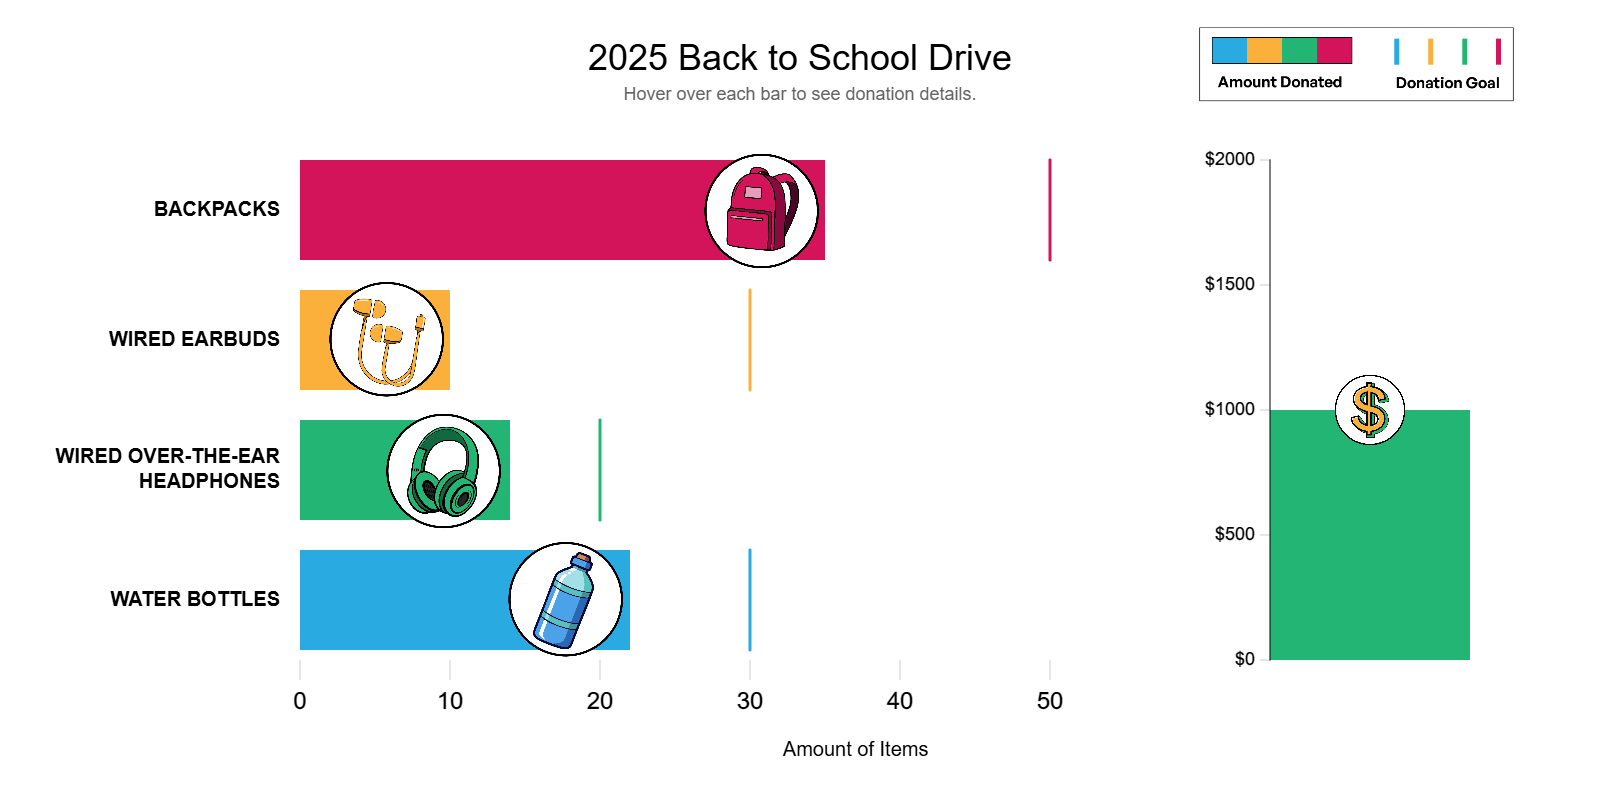
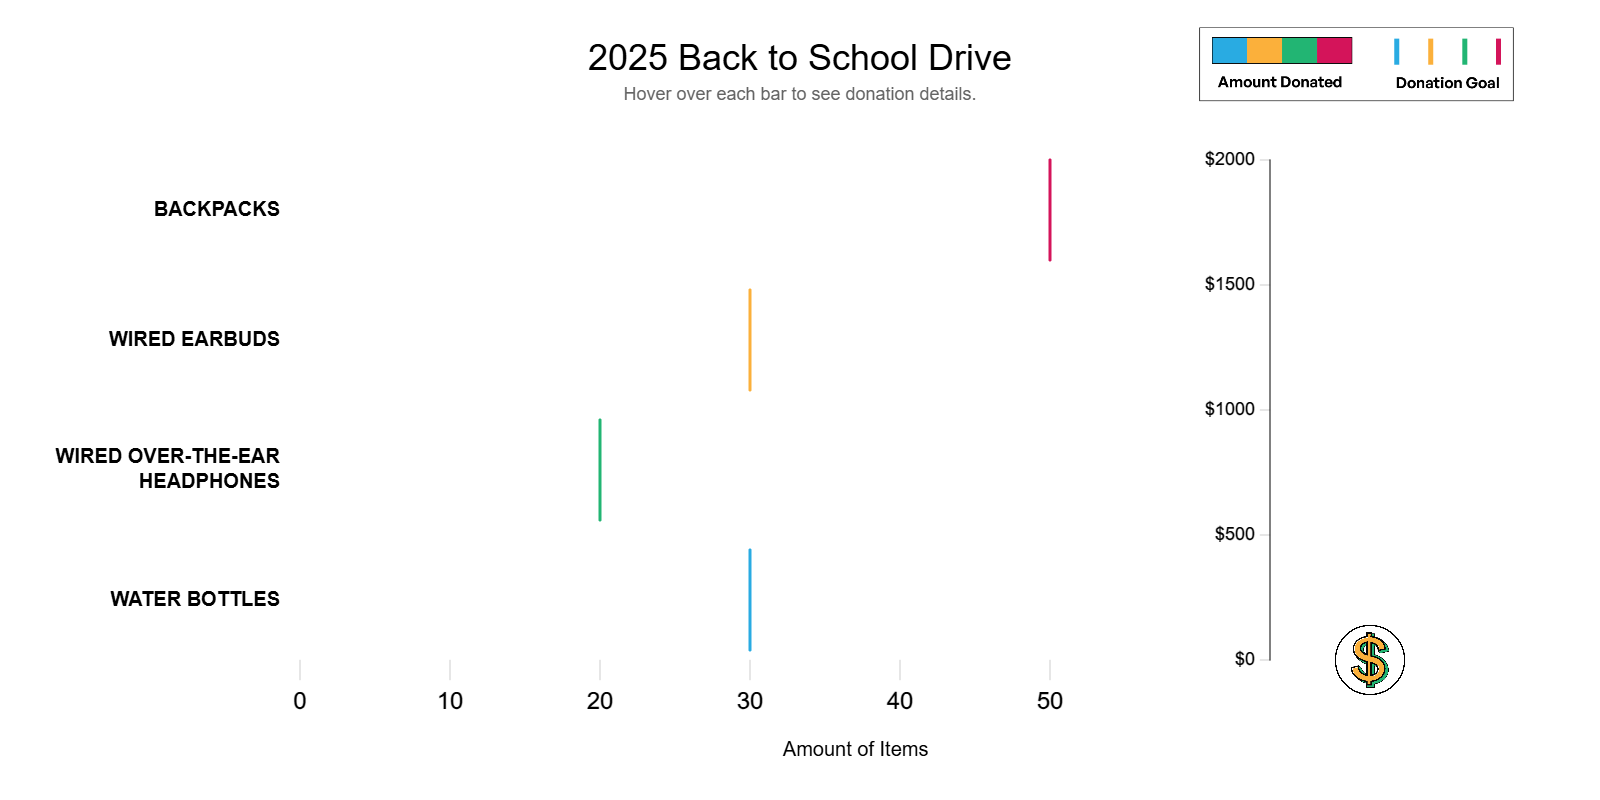
Add files via upload
Totals set to 0.    7/31/25 3pm update

Changed region(s): [[0.1875, 0.1875, 0.5312, 0.6562], [0.7812, 0.4688, 0.9375, 0.875], [0.1875, 0.6875, 0.4062, 0.8125]]

diff --git a/sketch.js b/sketch.js
@@ -1,8 +1,8 @@
 let items = [
-  { name: "BACKPACKS", donated: 35, goal: 50, color: "#d4145a", icon: "backpack.png" },
-  { name: "WIRED EARBUDS", donated: 10, goal: 30, color: "#fbb03b", icon: "earbuds.png" },
-  { name: "WIRED OVER-THE-EAR\nHEADPHONES", donated: 14, goal: 20, color: "#22b573", icon: "headphones.png" },
-  { name: "WATER BOTTLES", donated: 22, goal: 30, color: "#29abe2", icon: "waterbottle.png" }
+  { name: "BACKPACKS", donated: 0, goal: 50, color: "#d4145a", icon: "backpack.png" },
+  { name: "WIRED EARBUDS", donated: 0, goal: 30, color: "#fbb03b", icon: "earbuds.png" },
+  { name: "WIRED OVER-THE-EAR\nHEADPHONES", donated: 0, goal: 20, color: "#22b573", icon: "headphones.png" },
+  { name: "WATER BOTTLES", donated: 0, goal: 30, color: "#29abe2", icon: "waterbottle.png" }
 ];
 
 let icons = [];
@@ -10,7 +10,7 @@ let legend;
 
 
 let moneyIcon;
-let moneyChart = { donated: 1000, goal: 2000, color: "#22b573", icon: "money.png" };
+let moneyChart = { donated: 0, goal: 2000, color: "#22b573", icon: "money.png" };
 
 
 function preload() {
